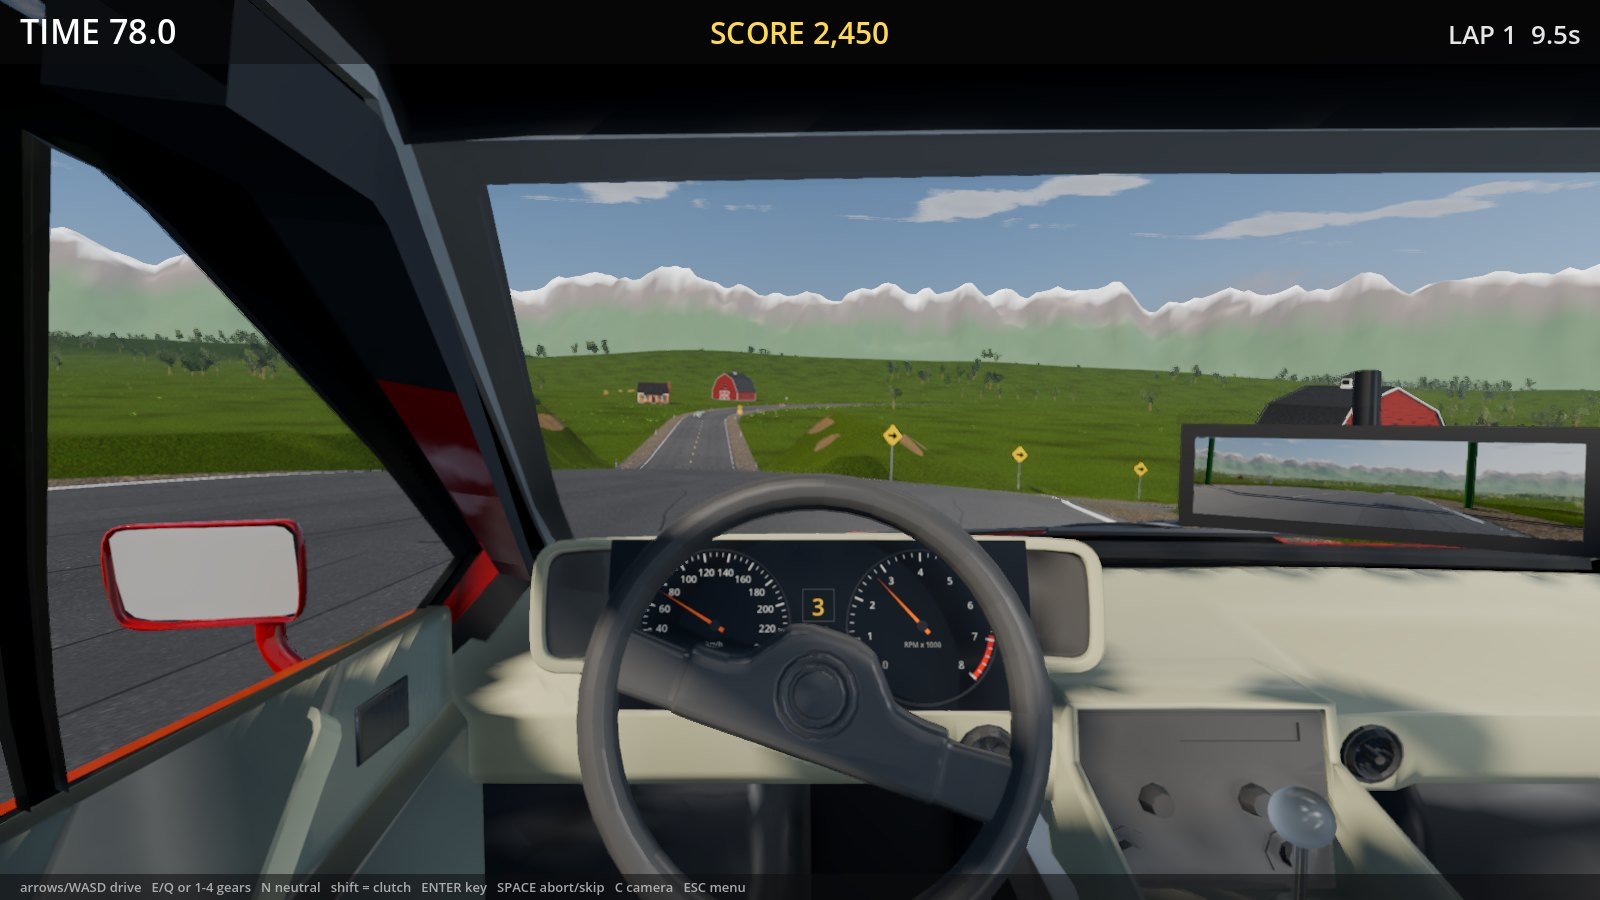
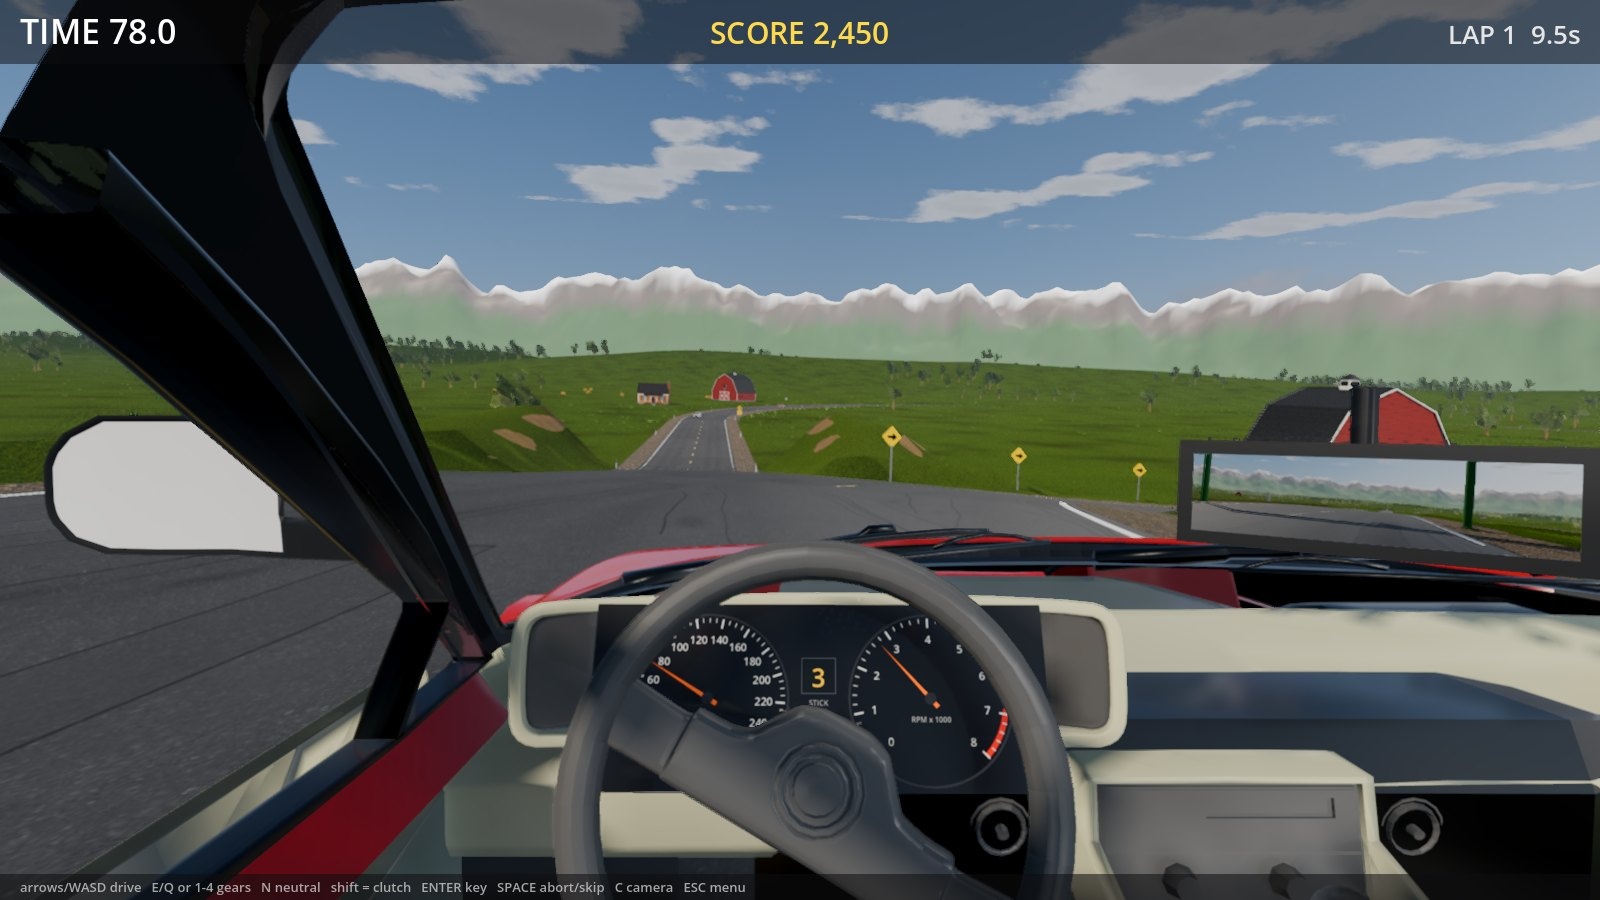
feat: the flat-twelve is the Testarossa again (li_osh's CC BY model with the Lotus Esprit's cabin borrowed: cabin_from), and the three hatchbacks are three cars: a Peugeot 205 GTi, a Lancia Delta Integrale, a Golf R32 with the SAAB 9-5's cabin; models along x, merged axles split by corner, pure blac

diff --git a/tools/prepare_car_models.py b/tools/prepare_car_models.py
@@ -296,7 +296,35 @@ def split_lining(model, blob, nodes, eye, wheel):
     print(f"  {split} painted face(s) inside the cabin take the lining")
 
 
-def prepare(car, entry, inspect=False):
+def borrow_cabin(model, blob, r, world, boxes, car, spec, donor_entry, cabin):
+    """Puts another model's cabin into this one (cabin_from): a body with no interior of its own (the Testarossas
+    found are shells) takes the named parts of a donor of its kind, rigged for this car's simulation like the
+    donor's own model would be, then moved and scaled by the entry's offset and scale (car frame, metres)."""
+    donor, donor_blob = cm.load(os.path.join(SOURCE, donor_entry["file"]))
+    if donor_entry.get("split"):
+        cm.split_nodes(donor, donor_blob, [s.lower() for s in donor_entry["split"]])
+    cm.strip_unlit(donor)
+    rd = cm.rig(donor, donor_entry, spec, car)
+    to_car = rd["to_car"]
+    if donor_entry.get("mirror_x"):
+        to_car = np.diag([-1.0, 1.0, 1.0, 1.0]) @ to_car
+    shift = matrix(translation=cabin.get("offset", [0.0, 0.0, 0.0]), scale=cabin.get("scale", [1.0, 1.0, 1.0]))
+    words = [s.lower() for s in cabin["nodes"]]
+    picked = [i for i in rd["body_nodes"] if cm.matches(i, rd["name_of"](i), words)]
+    offsets = cm.merge(model, blob, donor, donor_blob)
+    added = []
+    for i in picked:
+        model["nodes"].append({"name": rd["name_of"](i), "mesh": donor["nodes"][i]["mesh"] + offsets["meshes"]})
+        k = len(model["nodes"]) - 1
+        world[k] = shift @ to_car @ rd["worlds"][i]
+        lo, hi = cm.mesh_bounds(model, model["nodes"][k]["mesh"], world[k])
+        boxes[k] = (np.minimum(lo, hi), np.maximum(lo, hi))
+        r["body_nodes"].append(k)
+        added.append(rd["name_of"](i))
+    print(f"  cabin from {donor_entry['file']}: {len(added)} part(s) {added[:12]}")
+
+
+def prepare(car, entry, inspect=False, config=None):
     spec = cm.SPECS[car]
     source = os.path.join(SOURCE, entry["file"])
     if not os.path.exists(source):
@@ -321,6 +349,9 @@ def prepare(car, entry, inspect=False):
     for i in r["mesh_nodes"]:
         lo, hi = cm.mesh_bounds(model, nodes[i]["mesh"], world[i])
         boxes[i] = (np.minimum(lo, hi), np.maximum(lo, hi))
+    if entry.get("cabin_from"):
+        cabin = entry["cabin_from"]
+        borrow_cabin(model, blob, r, world, boxes, car, spec, config[cabin["car"]], cabin)
     print(f"{car}: {entry['file']} wheelbase {r['wheelbase']:.3f} -> scale {r['scale']:.4f} ({r['length']:.2f} m long), "
           f"tyre radius {r['tyre_radius']:.3f} m (simulation {spec['radius']:.3f}); {len(r['body_nodes'])} body node(s), "
           f"{sum(len(a) - 1 for a in r['assemblies'])} wheel part(s), {len(r['dropped'])} dropped")
@@ -373,10 +404,20 @@ def prepare(car, entry, inspect=False):
         parts = [add(name_of(i)[:60], recentre @ world[i], nodes[i]["mesh"]) for i in r["assemblies"][w]]
         children.append(add(f"Wheel{w}", matrix(translation=pivot[:3]), children=parts))
 
-    if interior and steering:
-        points = np.vstack([cm.mesh_points(model, blob, nodes[i]["mesh"], world[i]) for i in steering])
-        lo, hi = points.min(axis=0), points.max(axis=0)
-        centre = (lo + hi) / 2
+    if interior and not steering and entry.get("eye_at"):
+        # A cabin whose steering wheel is part of a larger mesh (it cannot turn): the entry gives the eyes, and the
+        # hub the dials are found from is taken where it would be, half a metre ahead and 28 cm under them.
+        eye_at = np.array(entry["eye_at"], dtype=float)
+        centre = eye_at - np.array([0.0, 0.28, 0.52])
+        entry = dict(entry, eye=list(eye_at - centre - np.array([0.0, 0.28, 0.52])))
+    if interior and (steering or entry.get("eye_at")):
+        if steering:
+            points = np.vstack([cm.mesh_points(model, blob, nodes[i]["mesh"], world[i]) for i in steering])
+            lo, hi = points.min(axis=0), points.max(axis=0)
+            centre = (lo + hi) / 2
+        else:
+            points = np.array([centre + [0.17, 0.0, 0.0], centre - [0.17, 0.0, 0.0], centre + [0.0, 0.17, 0.0], centre - [0.0, 0.17, 0.0], centre + [0.0, 0.0, 0.03]])
+            lo, hi = points.min(axis=0), points.max(axis=0)
         # The column's axis: the direction in which the wheel is thinnest (the rim's plane is its widest), turned to
         # point back at the driver.
         covariance = np.cov((points - centre).T)
@@ -519,7 +560,12 @@ def prepare(car, entry, inspect=False):
         glassy = contains(lower, GLASS_WORDS) or "KHR_materials_transmission" in material.get("extensions", {})
         # Some exporters mark every material see-through (the VAZ's): an opaque one is drawn alpha-tested instead, so
         # it casts its shadow and sorts with the glass; a texture's holes (a grille) still show through.
-        alpha = material.get("pbrMetallicRoughness", {}).get("baseColorFactor", [1, 1, 1, 1])
+        pbr = material.setdefault("pbrMetallicRoughness", {})
+        alpha = pbr.get("baseColorFactor", [1, 1, 1, 1])
+        # Nothing real is black as 0: black plastic, rubber and leather reflect 3-5 % of the light. An untextured
+        # pure black (the Delta's whole cabin) drew as a void with no shape; it is lifted to 0.035.
+        if "baseColorTexture" not in pbr and len(alpha) >= 3 and max(alpha[:3]) < 0.02:
+            pbr["baseColorFactor"] = [0.035, 0.035, 0.037] + list(alpha[3:4] or [1.0])
         if material.get("alphaMode") == "BLEND" and not glassy and not contains(lower, LAMP_WORDS) and (len(alpha) < 4 or alpha[3] >= 0.99):
             material["alphaMode"] = "MASK"
             material["alphaCutoff"] = 0.5
@@ -531,7 +577,7 @@ def prepare(car, entry, inspect=False):
             material["name"] = "GLP_Glass"
 
     orient_paint(model, blob, out_nodes)
-    if interior and steering:
+    if interior and (steering or entry.get("eye_at")):
         split_lining(model, blob, out_nodes, eye, centre)
 
     model["nodes"] = out_nodes
@@ -568,7 +614,7 @@ def main():
                 os.remove(stale)
             print(f"{car}: drawn as {entry['same_as']}")
             continue
-        prepare(car, entry, inspect)
+        prepare(car, entry, inspect, config)
 
 
 main()

diff --git a/tools/car_models.py b/tools/car_models.py
@@ -224,6 +224,73 @@ def strip_unlit(doc):
     return count
 
 
+def merge(base, base_blob, model, model_blob):
+    """Appends a second model's meshes, materials, textures, images, samplers, accessors and buffer views (and its
+    binary chunk) to the first; returns the index offsets. Its nodes are left to the caller."""
+    base_blob += b"\0" * (-len(base_blob) % 8)
+    blob_offset = len(base_blob)
+    base_blob += model_blob
+    offsets = {key: len(base.get(key, [])) for key in ("meshes", "materials", "textures", "images", "samplers", "accessors", "bufferViews")}
+    for view in model.get("bufferViews", []):
+        view = dict(view)
+        view["buffer"] = 0
+        view["byteOffset"] = view.get("byteOffset", 0) + blob_offset
+        base.setdefault("bufferViews", []).append(view)
+    for accessor in model.get("accessors", []):
+        accessor = dict(accessor)
+        accessor.pop("sparse", None)
+        if "bufferView" in accessor:
+            accessor["bufferView"] += offsets["bufferViews"]
+        base.setdefault("accessors", []).append(accessor)
+    for sampler in model.get("samplers", []):
+        base.setdefault("samplers", []).append(dict(sampler))
+    for image in model.get("images", []):
+        image = dict(image)
+        if "bufferView" in image:
+            image["bufferView"] += offsets["bufferViews"]
+        base.setdefault("images", []).append(image)
+    for texture in model.get("textures", []):
+        texture = dict(texture)
+        if "source" in texture:
+            texture["source"] += offsets["images"]
+        if "sampler" in texture:
+            texture["sampler"] += offsets["samplers"]
+        for extension in texture.get("extensions", {}).values():
+            if isinstance(extension, dict) and "source" in extension:
+                extension["source"] += offsets["images"]
+        base.setdefault("textures", []).append(texture)
+
+    def shift_textures(obj, key=""):
+        if isinstance(obj, dict):
+            if key.lower().endswith("texture") and "index" in obj:
+                obj["index"] += offsets["textures"]
+            for k, value in obj.items():
+                shift_textures(value, k)
+        elif isinstance(obj, list):
+            for value in obj:
+                shift_textures(value, key)
+
+    for material in model.get("materials", []):
+        material = json.loads(json.dumps(material))
+        shift_textures(material)
+        base.setdefault("materials", []).append(material)
+    for mesh in model.get("meshes", []):
+        mesh = json.loads(json.dumps(mesh))
+        for primitive in mesh["primitives"]:
+            primitive["attributes"] = {k: v + offsets["accessors"] for k, v in primitive["attributes"].items()}
+            if "indices" in primitive:
+                primitive["indices"] += offsets["accessors"]
+            if "material" in primitive:
+                primitive["material"] += offsets["materials"]
+            primitive.pop("targets", None)
+        base.setdefault("meshes", []).append(mesh)
+    used = set(base.get("extensionsUsed", [])) | set(model.get("extensionsUsed", []))
+    if used:
+        base["extensionsUsed"] = sorted(used)
+    base.pop("extensionsRequired", None)
+    return offsets
+
+
 def is_glass_material(material):
     if material.get("alphaMode") == "BLEND":
         base = material.get("pbrMetallicRoughness", {}).get("baseColorFactor", [1, 1, 1, 1])
@@ -241,6 +308,15 @@ def rig(model, entry, spec, car):
     space), body_nodes (the rest), to_car (4x4), and the measures printed for the log.
     """
     worlds, _ = world_matrices(model)
+    # A model lying along x is turned about y first so it faces +z, then rigged as one that does.
+    axis = entry.get("forward", "+z")
+    if axis in ("+x", "-x"):
+        angle = -np.pi / 2 if axis == "+x" else np.pi / 2
+        turn_y = np.eye(4)
+        turn_y[0, 0] = turn_y[2, 2] = np.cos(angle)
+        turn_y[0, 2] = np.sin(angle)
+        turn_y[2, 0] = -np.sin(angle)
+        worlds = {i: turn_y @ w for i, w in worlds.items()}
     nodes = model["nodes"]
     mesh_nodes = [i for i in worlds if "mesh" in nodes[i]]
     bounds = {i: mesh_bounds(model, nodes[i]["mesh"], worlds[i]) for i in mesh_nodes}
@@ -251,7 +327,7 @@ def rig(model, entry, spec, car):
     mesh_nodes = [i for i in mesh_nodes if i not in dropped]
 
     # The tyres: the named nodes, or the four wheel-like meshes (two equal extents, a smaller third, low) nearest the corners.
-    forward = 1.0 if entry.get("forward", "+z") == "+z" else -1.0
+    forward = -1.0 if entry.get("forward", "+z") == "-z" else 1.0
     if entry.get("tyres") == "auto" or "tyres" not in entry:
         candidates = []
         for i in mesh_nodes:

diff --git a/unreal/Scripts/fetch_models.py b/unreal/Scripts/fetch_models.py
@@ -17,6 +17,10 @@ MODELS = {
     "mclaren-570s-mmcworks.glb": "https://huggingface.co/datasets/allenai/objaverse/resolve/main/glbs/000-132/869feee8011d4803894318f6f0ddf2c6.glb",
     "peugeot-205-gti-lafreizz.glb": "https://huggingface.co/datasets/allenai/objaverse/resolve/main/glbs/000-079/b52c8e5e8070463ab1485039246f527c.glb",
     "vaz-2106-domhathair.glb": "https://huggingface.co/datasets/allenai/objaverse/resolve/main/glbs/000-047/a73b3cdeddd846209bf7c73d5f04d20f.glb",
+    # 0.17: the flat-twelve as the Testarossa it always was (the Esprit lends it its cabin), and three different hatches.
+    "testarossa-liosh.glb": "https://huggingface.co/datasets/allenai/objaverse/resolve/main/glbs/000-141/762c958bd80f4cac8e4dc76f847fca49.glb",
+    "lancia-delta-integrale-tarantula.glb": "https://huggingface.co/datasets/allenai/objaverse/resolve/main/glbs/000-140/85614131e0dc4613a948472aaa935fc7.glb",
+    "golf-r32-mk4.glb": "https://huggingface.co/datasets/allenai/objaverse/resolve/main/glbs/000-060/8171332b39be45e896a7fdf3c3e66354.glb",
 }
 
 folder = sys.argv[1] if len(sys.argv) > 1 else os.path.join(os.path.dirname(os.path.abspath(__file__)), "..", "Import", "Models")

diff --git a/THIRD_PARTY.md b/THIRD_PARTY.md
@@ -31,9 +31,13 @@
 | Freesound #237375 "Car Crash" by squareal | a crash (`crash/crash3.wav`) | CC0 1.0 — https://freesound.org/s/237375/ |
 | ambientCG textures Grass004, Asphalt004, Concrete034, Ground037, Bark012, WoodSiding009, RoofingTiles003, Bricks078, MetalPlates006, LeafSet001, Leather037, Carpet016, Fabric030 (1K) | ground, road, shoulders, fields, trees, buildings, the train, the cabin's leather, carpet and roof lining; the leaf-cluster atlas is composited from LeafSet001 (`game/assets/textures/SOURCES.md`) | CC0 1.0 — https://ambientcg.com |
 | Poly Haven HDRI "kloofendal_43d_clear_puresky" (2K) | sky, lighting and reflections | CC0 1.0 — https://polyhaven.com |
-| "Lotus Esprit Turbo 1983" by esprit3d.website (Shogos_esprit) | the flat-twelve's body and cabin (`tools/car_models.json`; mirrored to left-hand drive) | CC BY 4.0 — https://sketchfab.com/3d-models/886bcf8ce52f46e3b36115e01319ec44; modified: re-scaled and re-rigged for GrudgeLap |
+| "Ferrari Testarossa" by li_osh | the flat-twelve's body (`tools/car_models.json`) | CC BY 4.0 — https://sketchfab.com/3d-models/762c958bd80f4cac8e4dc76f847fca49; modified: re-scaled, re-rigged and given the Esprit's cabin for GrudgeLap. The Sketchfab page has since been taken down; the licence it was published under stands for the copy used |
+| "Lotus Esprit Turbo 1983" by esprit3d.website (Shogos_esprit) | the flat-twelve's cabin (mirrored to left-hand drive) | CC BY 4.0 — https://sketchfab.com/3d-models/886bcf8ce52f46e3b36115e01319ec44; modified: re-scaled and re-rigged for GrudgeLap |
 | "Mclaren 570S Coupè" by MMC Works (mmcworks) | the V8's body and cabin | CC BY 4.0 — https://sketchfab.com/3d-models/869feee8011d4803894318f6f0ddf2c6; modified: re-scaled and re-rigged for GrudgeLap |
-| "Peugeot 205 Gti" by la_freizz | the three hatchbacks' body and cabin | CC BY 4.0 — https://sketchfab.com/3d-models/b52c8e5e8070463ab1485039246f527c; modified: re-scaled and re-rigged for GrudgeLap |
+| "Peugeot 205 Gti" by la_freizz | the hot hatch's body and cabin | CC BY 4.0 — https://sketchfab.com/3d-models/b52c8e5e8070463ab1485039246f527c; modified: re-scaled and re-rigged for GrudgeLap |
+| "FREE Lancia Delta HF Integrale evo 2" by TARANTULA (begemot.988888) | the five-cylinder hatch's body and cabin | CC BY 4.0 — https://sketchfab.com/3d-models/85614131e0dc4613a948472aaa935fc7; modified: re-scaled and re-rigged for GrudgeLap |
+| "Golf R32" by Nick Broad (nickbroad) | the turbo hatch's body (with the SAAB 9-5's cabin) | CC BY 4.0 — https://sketchfab.com/3d-models/8171332b39be45e896a7fdf3c3e66354; modified: re-scaled and re-rigged for GrudgeLap |
+| "SAAB 9-5 sedan 1997-2001" by blendffnike | the turbo hatch's cabin | CC BY 4.0 — https://sketchfab.com/3d-models/4db0bcbc183a452eb3ef692cce2fe36f; modified: re-scaled and re-rigged for GrudgeLap |
 | "VAZ-2106" by domhathair | the 1990s saloon's body and cabin | CC BY 4.0 — https://sketchfab.com/3d-models/a73b3cdeddd846209bf7c73d5f04d20f; modified: re-scaled, re-rigged and lit for GrudgeLap |
 | "Mercedes-Benz E-Class W212" by Peter_D (better_peter) | the fleet saloon's body and cabin | CC BY 4.0 — https://sketchfab.com/3d-models/119c5e10733142b197aa53b86f6aeb04; modified: re-scaled and re-rigged for GrudgeLap |
 | xunit, Microsoft.NET.Test.Sdk | tests only, not shipped | Apache-2.0 / MIT |
@@ -41,7 +45,7 @@
 | ffmpeg, numpy, Pillow | offline tools (grain bank, loop and one-shot cutting, icon), not shipped | LGPL/GPL, BSD, MIT-CMU |
 
 The track, the world and every other mesh in the game are generated at run time by the code in this
-repository, but for the cars: the five CC BY models above are drawn in their place (fetched from the Objaverse
+repository, but for the cars: the CC BY models above are drawn in their place (fetched from the Objaverse
 mirror by `unreal/Scripts/fetch_models.py` and prepared by `tools/prepare_car_models.py` at build time; a build
 without them draws the game's own lofted bodies, as does the 1.4 estate). The only other files brought in are the
 CC0 textures, the CC0 sky, the engine grain banks, the tyre and road loops, the exhaust pops, the train's steam
@@ -54,7 +58,8 @@ to license it CC0 or CC-BY, an issue is welcome.
 The car names ("FLAT-12 GT '84", "V8 GTB '12 SPORT EXHAUST", "HOT HATCH 2.0 16V '01", "FIVE 2.0 20V HATCH
 '97", "TURBO HATCH 2.0T '08", "SALOON 1.6 '91", "ESTATE 1.4 '93", "SALOON 1.4 16V '17") are descriptions of an engine layout, a body style and a year; they are not the
 names of any make or model. The lofted bodies are our own, keyed on the proportions of the period cars; the
-models drawn in their place show real cars (a Lotus, a McLaren, a Peugeot, a VAZ, a Mercedes-Benz), whose names
+models drawn in their place show real cars (a Ferrari, a McLaren, a Peugeot, a Lancia, a Volkswagen, a VAZ, a
+Mercedes-Benz, and cabins of a Lotus and a SAAB), whose names
 and designs belong to their makers, as stand-ins for the catalogue's cars.
 
 Not affiliated with, endorsed by, or derived from the assets of any arcade manufacturer or car maker. The

diff --git a/docs/design.md b/docs/design.md
@@ -332,6 +332,13 @@ force-feedback wheel later (the FFB loop of the 1989 cabinet ran at 4 ms, the ca
   loop the ribbon is the whole deck and is seen from below; the centre line and the far ground only from above.
   The hot hatch's and the five's mirror housings are black plastic, the turbo hatch's in paint: from the seat
   the housing's back shows through the side glass, and in red paint it read as a ball beside the screen.
+- 0.17: the flat-twelve is the Testarossa again, the car the game is about (the Ferrari models were taken down from
+  Sketchfab, which is why 0.16 used the Esprit; the CC BY copy in the Objaverse mirror stands): li_osh's shell,
+  which has no cabin, with the Esprit's cabin borrowed (`cabin_from`: a donor entry, its parts rigged for this car
+  and moved by an offset). The hatchbacks are three cars: the hot hatch a Peugeot 205 GTi, the five a Lancia
+  Delta Integrale (its cabin is one black mesh, so its wheel does not turn; `eye_at` gives the eyes), the turbo
+  hatch a Golf R32 Mk4 with the SAAB 9-5's cabin moved 15 cm forward. Models lying along x turn about y first
+  (`forward: -x`); untextured pure black is lifted to 0.035, as nothing real is black as 0.
 - Real car models (0.16, `tools/prepare_car_models.py`, `CarView.Model.cs`). The lofted bodies and the boxes of
   their cabins read as toys, from the seat most of all, so the catalogue's cars are drawn as CC BY models of real
   cars with cabins of their own (THIRD_PARTY.md): the flat-twelve a Lotus Esprit Turbo 1983 (right-hand drive,

diff --git a/README.md b/README.md
@@ -179,7 +179,8 @@ best lap's ghost out of the picture.
   steel lattice, the drawbridge's white A-frame towers with cables, pad, grass tufts, trees from leaf cards,
   a wood beyond the fields, fields, textured buildings, the green fork gantry with its traffic light, the
   red checkpoint banner, signs, the train on its railway), real car models with their own cabins (0.16: CC BY
-  models of a Lotus Esprit, a McLaren 570S, a Peugeot 205 GTi, a VAZ-2106 and a Mercedes-Benz E-Class, set to
+  models of a Ferrari Testarossa (with a Lotus Esprit's cabin), a McLaren 570S, a Peugeot 205 GTi, a Lancia Delta
+  Integrale, a Volkswagen Golf R32 (with a SAAB 9-5's cabin), a VAZ-2106 and a Mercedes-Benz E-Class, set to
   the simulation's wheelbase, their wheels and steering wheel turning, the live dials in their binnacles, the
   rear-view mirror on their own; `tools/prepare_car_models.py`), and where a car has none, lofted car bodies
   with rounded character lines, panel seams, the hatchbacks' lamps, grilles and tail lamps laid on the skin,
